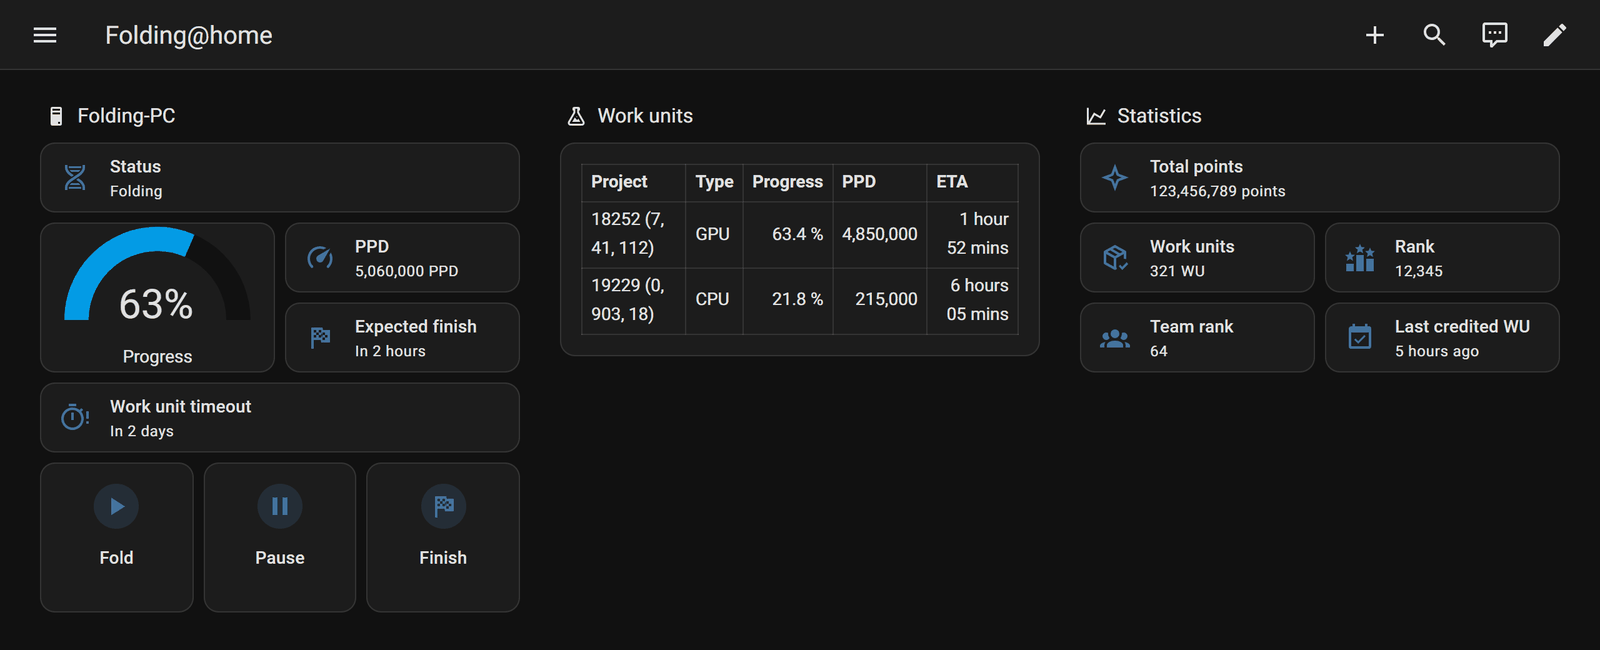
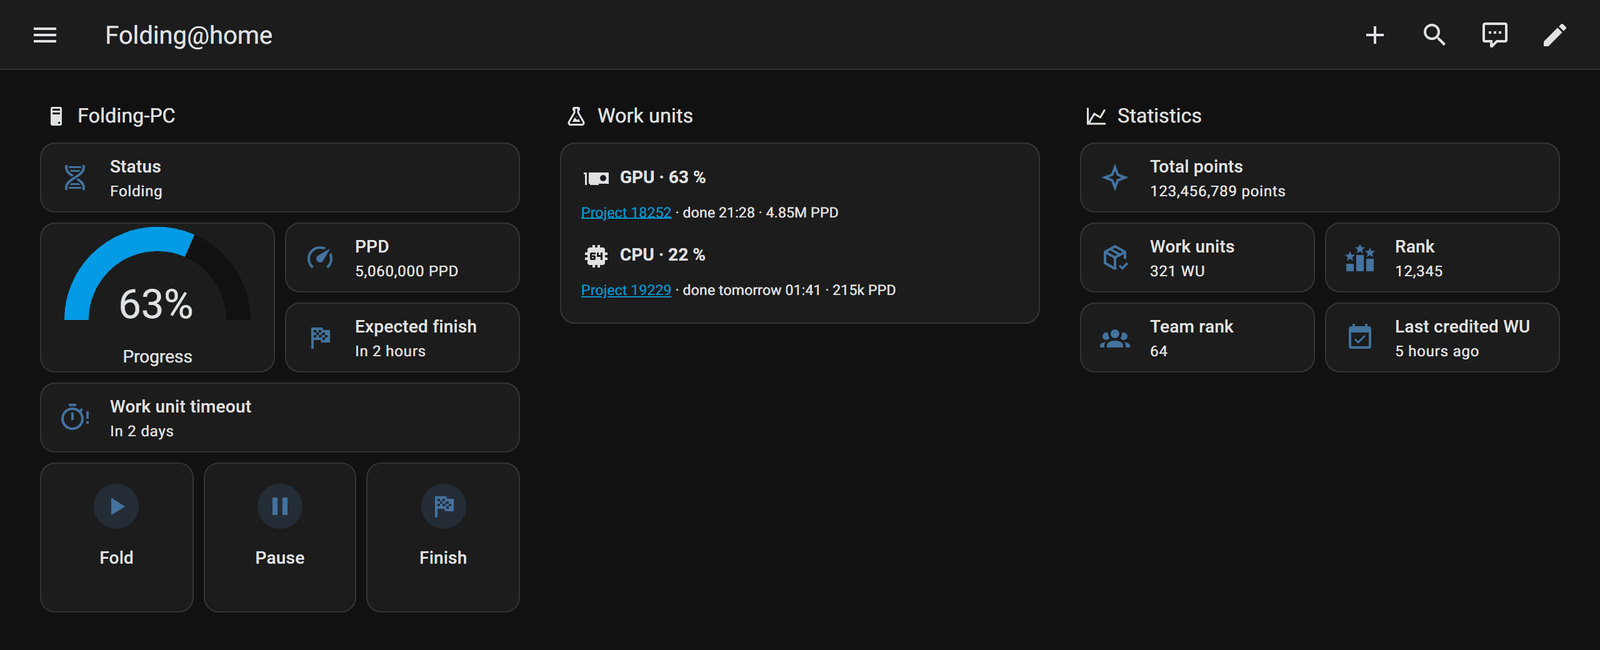
Rework the work units card in the example dashboard
Replace the markdown table (wrapping project/RCG and ETA text) with one
compact block per work unit: GPU/CPU icon, progress, a link to the project
page, the expected finish as a clock time and short PPD. Paused or waiting
units show their state. Screenshots updated.

Changed region(s): [[0.3438, 0.2462, 0.625, 0.4], [0.3438, 0.4308, 0.625, 0.4923]]

diff --git a/README.md b/README.md
@@ -151,7 +151,8 @@ Statistics are refreshed every 30 minutes.
 
 [`examples/dashboard.yaml`](examples/dashboard.yaml) contains the dashboard
 from the screenshots: status, progress, PPD, expected finish, work unit timeout,
-the three buttons, a table of the running work units and the donor statistics.
+the three buttons, a compact list of the work units (type, progress, a link to
+the project, expected finish time and PPD per unit) and the donor statistics.
 Create a new dashboard, open ⋮ → **Edit dashboard** → ⋮ → **Raw configuration
 editor**, paste the file and replace `folding_pc` with the entity ID prefix of
 your machine.
